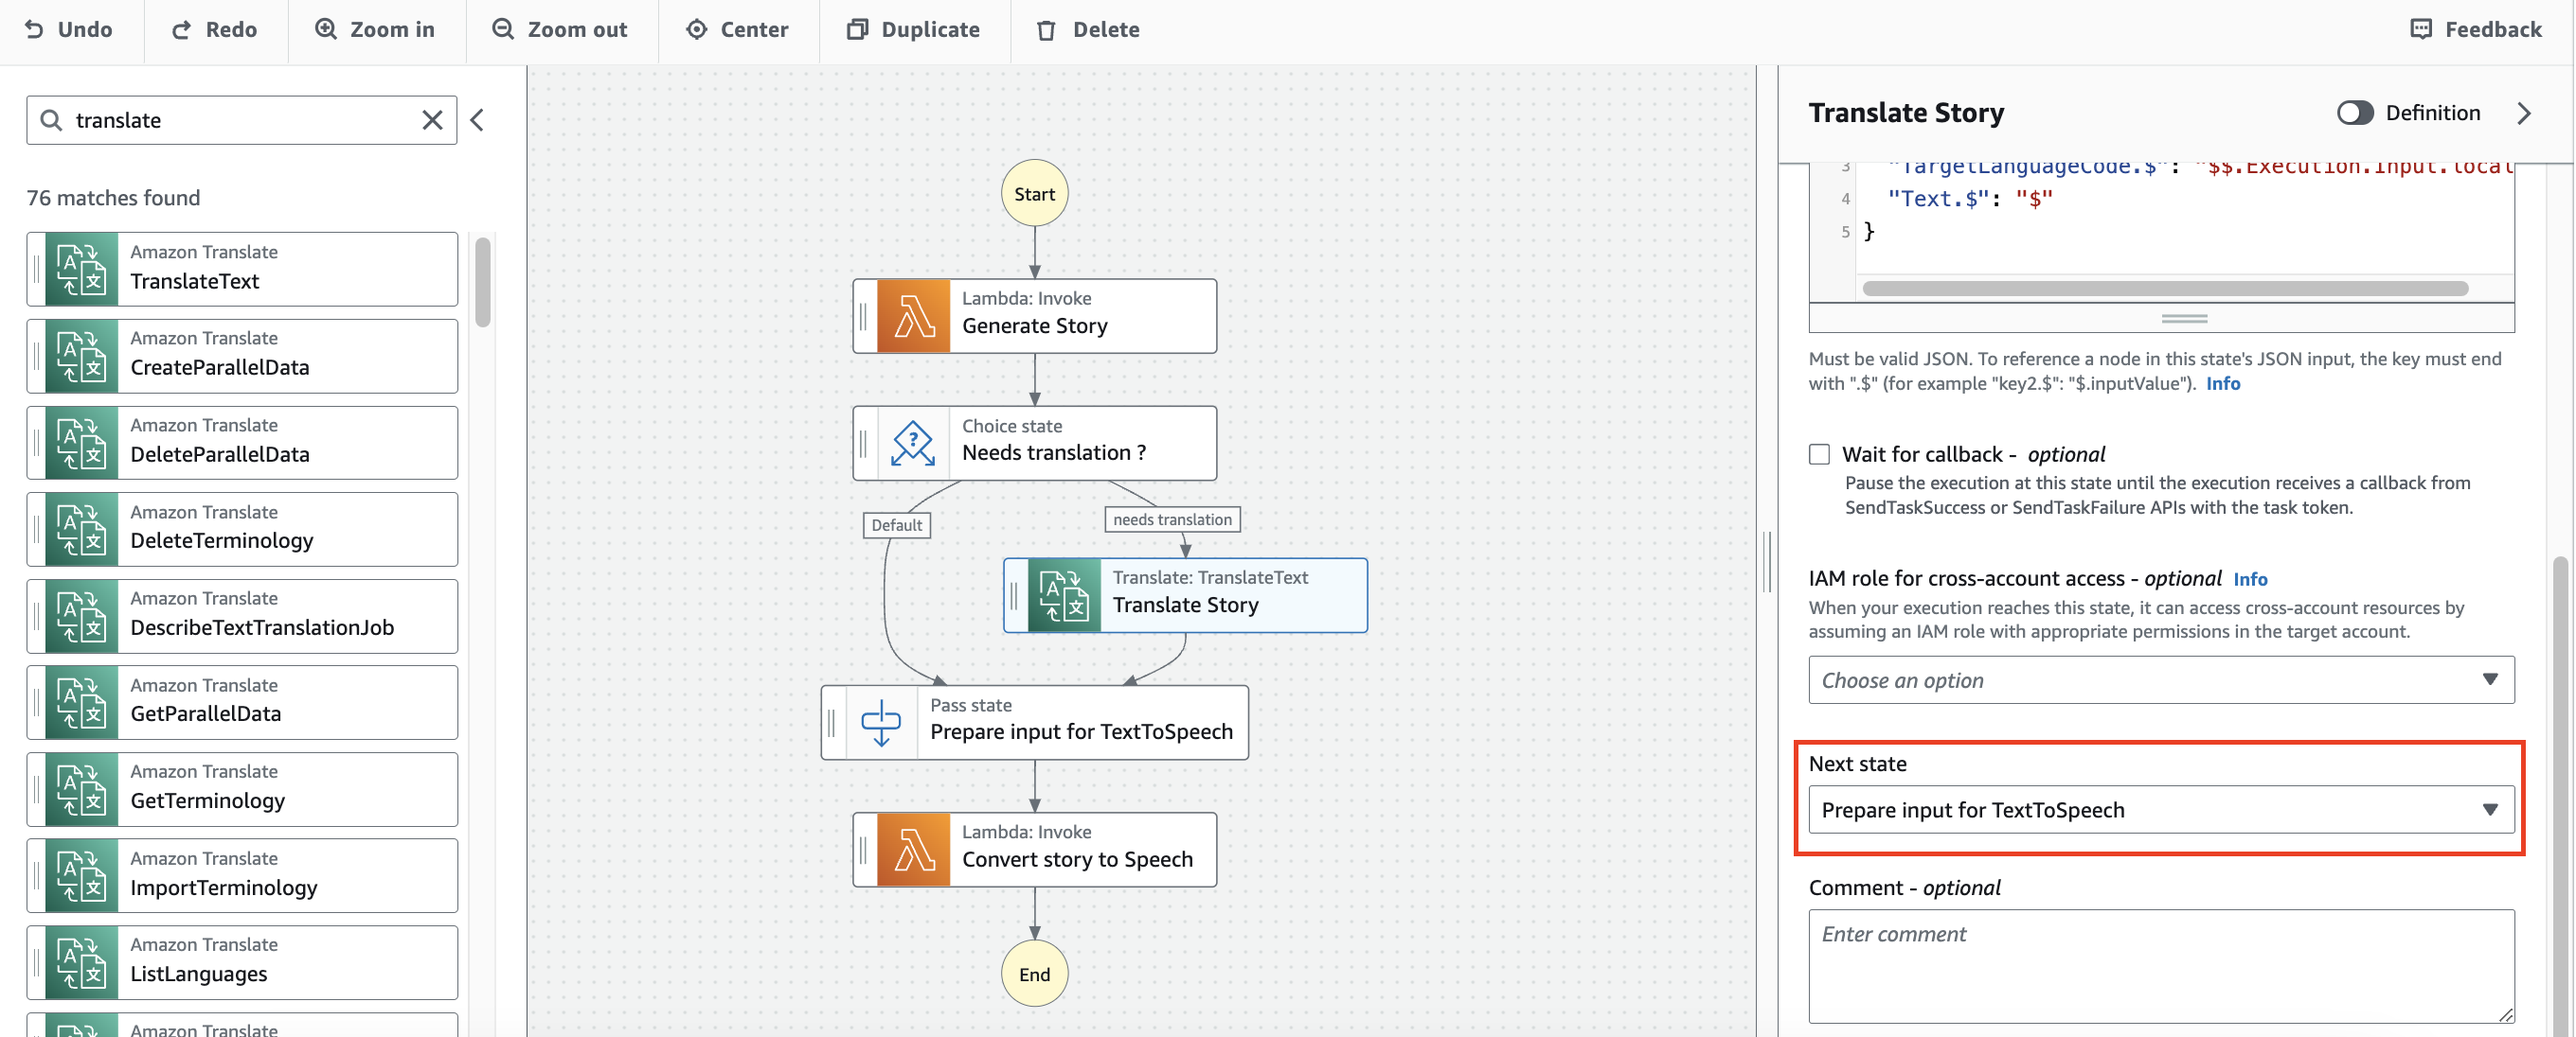
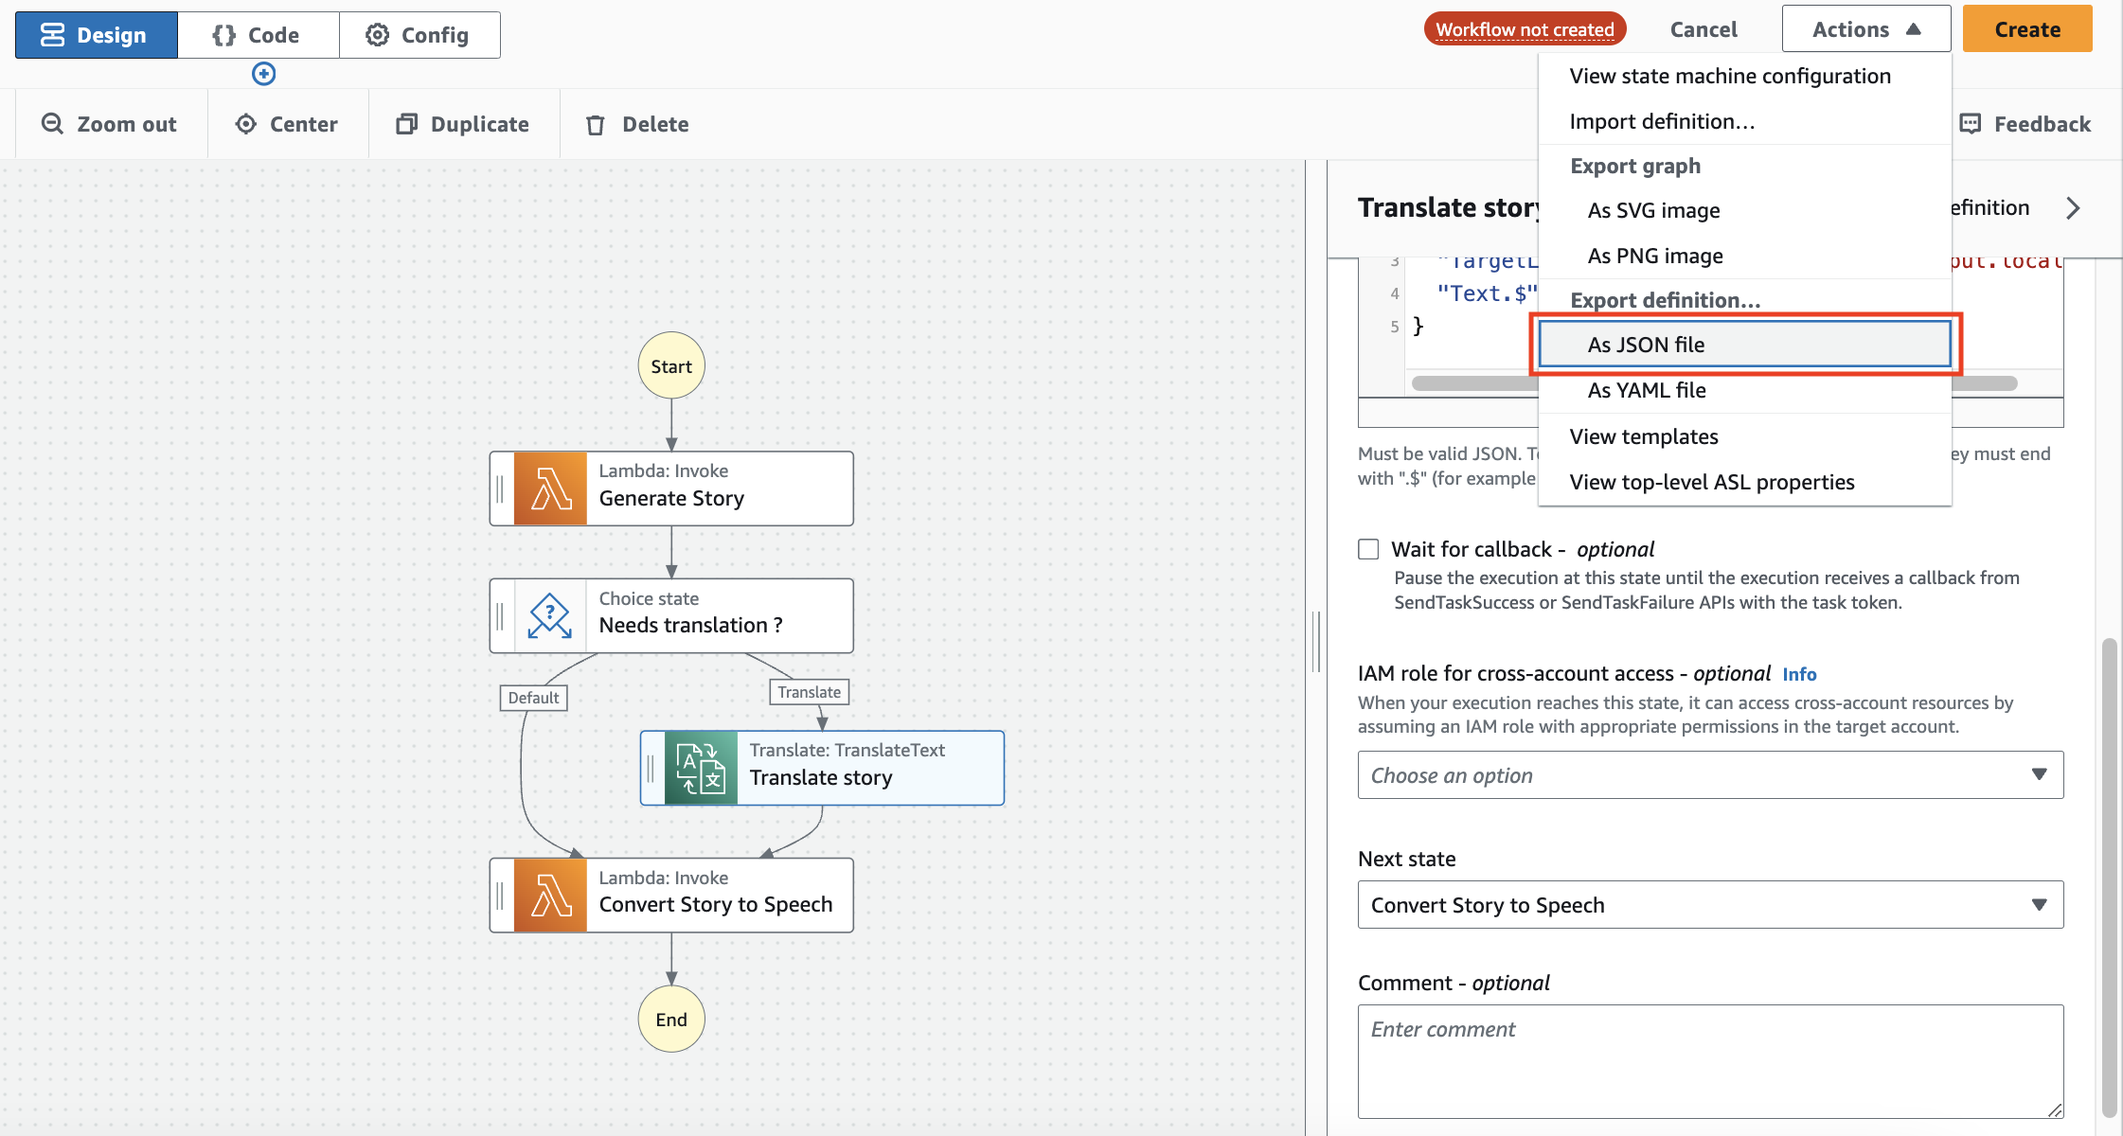
Fix remaining issues

diff --git a/README.md b/README.md
@@ -7,6 +7,7 @@ In order to proceed with the demo, you should have the following:
 - [AWS SAM](https://docs.aws.amazon.com/serverless-application-model/latest/developerguide/install-sam-cli.html) installed
 - [Configure your AWS credentials](https://docs.aws.amazon.com/cli/latest/userguide/cli-chap-configure.html)
 - Download the contents of this directory to use it when going over the demo.
+- Make sure to enable the Anthropic Claude Instant V1 model from the [Bedrock console](https://console.aws.amazon.com/bedrock/home#/modelaccess)
 
 ## What we are building
 
@@ -21,7 +22,7 @@ This is the architecture of the solution we are going to build:
 2. Call **Amazon API Gateway** backend
 3. Trigger an **AWS Lambda function** from API Gateway
 4. Trigger a syncronous execution of **AWS Step Functions workflow** from the Lambda function
-5. Call **Falcon TII’s LLM** through **Amazon Sagemaker endpoint** to generate a unique story
+5. Call **Anthropic Claude Instant V1 model** through **Amazon Bedrock** to generate a unique story
 6. Translate story if needed with **Amazon Translate**
 7. Convert story to speech with **Amazon Polly**
 8. Store generated story in an **Amazon S3** bucket
@@ -33,7 +34,7 @@ This is the architecture of the solution we are going to build:
 
 Now we will start building the backend of our solution. In order to do so, we will be leveraging [AWS Application Composer](https://aws.amazon.com/application-composer/).
 
-1. Let's start by downloading the contents of this directory on your local computer. Alternatively, start by creating a directory on your local computer called `mvp-stories`. This directory should contain two subdirectories, one for our frontend, one for our backend. Create the two directories:
+1. Let's start by downloading the contents of this directory on your local computer. You should have two directories:
    - `mvp-stories/backend`
    - `mvp-stories/frontend`
 2. Head to the [Application Composer console](https://console.aws.amazon.com/composer/home)
@@ -86,7 +87,7 @@ Now we will start building the backend of our solution. In order to do so, we wi
 14. Drag and drop an S3 Bucket resource. Change the logical ID to **MvpStoriesBucket**
 15. Link the **MvpStoriesTextToSpeech** resource with tge **MvpStoriesBucket** resource
   ![plot](./images/backend-part-1/11.png)
-16. Drag an additional Lambda function resource, similarly to the firstly created Lambda function resource. Change the following details for your function:
+16.  Drag an additional Lambda function resource, similarly to the firstly created Lambda function resource. Change the following details for your function:
     - Logical ID to **MvpStoriesBedrock**
     - Source path to `src/handlers`
     - Handler to `bedrock.handler`
@@ -99,8 +100,8 @@ Now we will start building the backend of our solution. In order to do so, we wi
       ```
       This will give the permission to your Lambda function to invoke your LLM through Amazon Bedrock.
     ![plot](./images/backend-part-1/12.png)
-
-A `template.yaml` file will have been created by Application Composer. This IaC (Infrastructure as Code) template describes your serverless architecture using [AWS SAM (Serverless Application Model)](https://aws.amazon.com/serverless/sam/).
+17. Click on the **template** tab and copy the contents. This IaC (Infrastructure as Code) template describes your serverless architecture using [AWS SAM (Serverless Application Model)](https://aws.amazon.com/serverless/sam/). Paste the copied code to a `template.yaml` in your backend folder `mvp-stories/backend`.
+  ![plot](./images/backend-part-1/13.png)
 
 ### Build the Step Function workflow logic
 
@@ -132,53 +133,47 @@ Currently the Step Function workflow resource in your Application Composer canva
     - **en**
 15. Click **Save conditions**
     ![plot](./images/step-function/6.png)
-16. Let's start with the case where the story does not need translation. Let's drag and drop a **Pass** state to transform the current state of the state machine to be passed to the next step.
-17. Change the state name to **Prepare input for textToSpeech**
+16. Let's start with the case where the story does not need translation. Drag and drop an AWS Lamba Invoke step.
+17. Change the state name to **Convert Story to Speech**
+18. Under API parameters, choose the function name to be **Enter function name** and `${MvpStoriesTextToSpeechArn}` as shown on the image below. This value will be dynamically filled in with the actual ARN of our Lambda function when our backend is deployed:
   ![plot](./images/step-function/7.png)
-18.  Click on Input
-19.  Select **Transform input with Parameters**
-20.  Fill in the following json:
-  ```json
-  {
-    "story.$": "$",
-    "locale.$": "$$.Execution.Input.locale"
-  }
-  ```
-  ![plot](./images/step-function/8.png)
-    With this, we are creating a json to be passed to the next state with the generated story and the requested language of the story.
-
-21.  Drag and drop an AWS Lamba Invoke step after the **Prepare input for textToSpeech** state.
-22.  Change the state name to **Convert Story to Speech**
-23.  Under API parameters, choose the function name to be **Enter function name** and `${MvpStoriesTextToSpeechArn}` as shown on the image below. This value will be dynamically filled in with the actual ARN of our Lambda function when our backend is deployed:
+19. Under **Payload** select **Enter Payload** and fill in the following payload:
+      ```json
+      {
+        "story.$": "$",
+        "locale.$": "$$.Execution.Input.locale"
+      }
+      ```
+      ![plot](./images/step-function/8.png)
+        With this, we are creating a json to be passed to the **MvpStoriesTextToSpeech** Lambda function execution.
+        
+20. Now lets handle the case were we actually need to translate our story. Drag and drop a Translate TranslateText step for the **Needs Translation** branch
+21. Change the state name to **Translate story**
+22. Change the API parameters for the Amazon Translate call to the following json:
+    ```json
+    {
+      "SourceLanguageCode": "en",
+      "TargetLanguageCode.$": "$$.Execution.Input.locale",
+      "Text.$": "$"
+    }
+    ```
     ![plot](./images/step-function/9.png)
-24.  Now lets handle the case were we actually need to translate our story. Drag and drop a Translate TranslateText step for the **Needs Translation** branch
-25.  Change the state name to **Translate story**
-26.  Change the API parameters for the Amazon Translate call to the following json:
-  ```json
-  {
-    "SourceLanguageCode": "en",
-    "TargetLanguageCode.$": "$$.Execution.Input.locale",
-    "Text.$": "$"
-  }
-  ```
-![plot](./images/step-function/10.png)
-1.   Similarly to the **Generate Story** step, we want to pass the translated story as input to the next state. Let's filter out the story from the result of the TranslateText call
+23.    Similarly to the **Generate Story** step, we want to pass the translated story as input to the next state. Let's filter out the story from the result of the TranslateText call
     1.  Click on Output
     2.  Select the **Filter output with OutputPath** option and type:
-        ```
-        $.TranslatedText
-        ```
-    
-  ![plot](./images/step-function/11.png)
+          ```
+          $.TranslatedText
+          ```
+        ![plot](./images/step-function/10.png)
 
-28. After our **Translate story** step, we want to perform the same steps as the **Default** branch of our Choice state.
+24. After our **Translate story** step, we want to perform the same steps as the **Default** branch of our Choice state.
     1.  Click on Configuration
     2.  Select **Next state** to be the **Prepare input for textToSpeech** state
-  ![plot](./images/step-function/12.png)
-29. Now that our workflow is setup, we can export it by clicking on **Import/Export**
-30. Click on **Export JSON definition**
-    ![plot](./images/step-function/13.png)
-31. Copy the downloaded file to your backend folder and name the file `statemachine.asl.json`
+  ![plot](./images/step-function/11.png)
+25. Now that our workflow is setup, we can export it by clicking on **Import/Export**
+26. Click on **Export JSON definition**
+    ![plot](./images/step-function/12.png)
+27. Copy the downloaded file to your backend folder and name the file `statemachine.asl.json`
 
 ### Finalize the backend locally
 
@@ -244,7 +239,13 @@ There are a few things that we need to modify in our `template.yaml` file to mak
 Now that we have our IaC settled, there is a last thing we need to take care of before being able to deploy. In Application Composer, we have defined 2 Lambda resources. We have defined their configuration but we did not define the actual code contained in those Lambda functions. Let's do this now.
 
 1. create a the `src/handlers` in your `backend` directory.
-2. Create a `src/handlers/workflowTrigger.mjs` file and type in the following code
+2. In the `src/handlers` folder run the following commands:
+  ```bash
+  npm init
+  npm install @aws-sdk/client-bedrock-runtime
+  ```
+  This will allow you to import and use the Bedrock runtime client from within your Lambda functions
+3. Create a `src/handlers/workflowTrigger.mjs` file and type in the following code
     ```js
     import { SFNClient, StartSyncExecutionCommand } from "@aws-sdk/client-sfn"
 
@@ -269,7 +270,7 @@ Now that we have our IaC settled, there is a last thing we need to take care of 
     }
     ```
     This code will handle the request incoming from API Gateway, call the Step Function workflow syncronously and return the formatted results.
-3. Create a `src/handlers/bedrock.mjs` file and type in the following code
+4. Create a `src/handlers/bedrock.mjs` file and type in the following code
     ```js
     import { BedrockRuntimeClient, InvokeModelCommand } from "@aws-sdk/client-bedrock-runtime"
     const client = new BedrockRuntimeClient()
@@ -296,7 +297,7 @@ Now that we have our IaC settled, there is a last thing we need to take care of 
     }
     ```
     This code will call the Anthropic Claude Instant V1 model from Amazon Bedrock with a given prompt. Feel free to test out any other text generation model from Bedrock. Make sure to enable the model from the [Bedrock console](https://console.aws.amazon.com/bedrock/home#/modelaccess) before trying to use it in this demo.
-4. Create a `src/handlers/textToSpeech.mjs` file and type in the following code
+5. Create a `src/handlers/textToSpeech.mjs` file and type in the following code
     ```js
     import { PollyClient, SynthesizeSpeechCommand } from "@aws-sdk/client-polly"
     import { S3Client, GetObjectCommand } from "@aws-sdk/client-s3"
